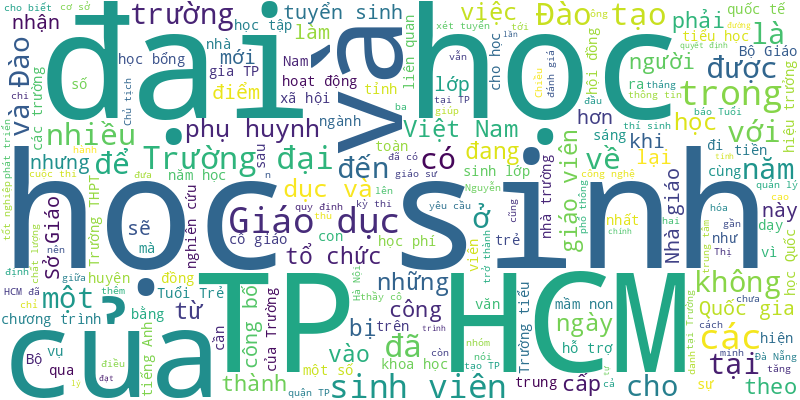
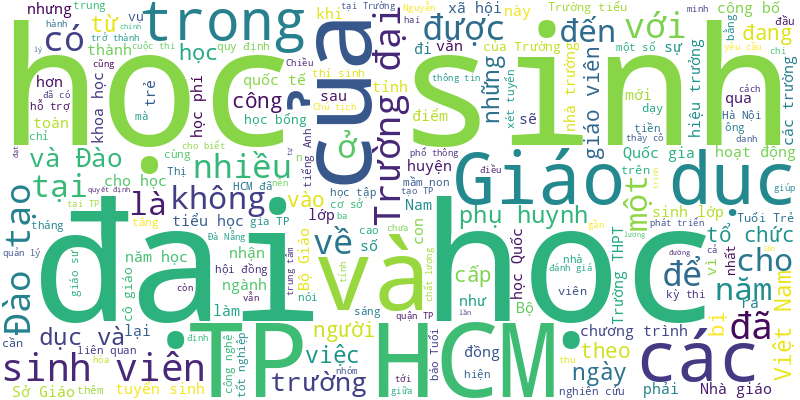
🍀 = 10%

diff --git a/README.md b/README.md
@@ -1,6 +1,11 @@
 # Tuoi Tre RSS 
 
 ## Giáo dục 
+- Mùa tư vấn tuyển sinh - hướng nghiệp 2025 sẽ chính thức bắt đầu với bảy chương trình tại sáu địa phương trong thứ bảy và chủ nhật tuần này.
+- Với nhiều hoạt động giao lưu cho học sinh, giáo viên sau kỳ thi, các thí sinh tranh tài giải toán trên máy tính cầm tay cấp TP.HCM đã có một kỳ thi đầy thư giãn.
+- Sinh viên xếp hàng dài, đợi cả tiếng đồng hồ để được xin chữ thư pháp tại Ngày hội Học sinh, sinh viên toàn quốc (Connect Fest 2025).
+- Vụ trưởng Vụ Giáo dục đại học cho rằng xét tuyển sớm chỉ có lợi cho thí sinh yếu, còn các thí sinh giỏi không cần phương thức xét tuyển này.
+- Năm 2025 Trường đại học Tài chính - Marketing sẽ mở thêm 3 ngành mới, nhưng không tăng chỉ tiêu tuyển sinh.
 - Bộ Giáo dục và Đào tạo vừa ban hành thông tư quy định về dạy thêm, học thêm với nhiều điểm mới.
 - Những sinh viên là nhà sư sẽ khó đạt được danh hiệu 'Sinh viên 5 tốt' vì vướng tiêu chí 'thể lực tốt'.
 - Nhiều ý kiến ủng hộ việc 'cấm giáo viên dạy thêm tại nhà', nhưng cũng không ít băn khoăn.
@@ -996,13 +1001,43 @@
 - Đến chiều 16-9, tổng số tiền mà hệ thống Trường Ngô Thời Nhiệm quyên góp ủng hộ đồng bào miền Bắc được là 1.221.880.000 đồng.
 - Đã ghi nhận 52 học sinh, trẻ em bị tử vong, 3 học sinh bị mất tích, 3 giáo viên tử vong, 1 giáo viên mất tích, do bão số 3 và hoàn lưu bão.
 - Tại hội nghị tổng kết năm học 2023-2024, Sở Giáo dục và Đào tạo TP.HCM quyết định thí điểm đưa tiếng Anh thành ngôn ngữ dạy học thứ hai trong nhà trường.
-- Trường đại học Công nghiệp TP.HCM vừa tuyển chọn và ký hợp đồng đưa 39 sinh viên thực tập hưởng lương tại Nhật Bản trong vòng 1 năm.
-- Đoàn Việt Nam còn giành thêm 3 chứng chỉ nghề xuất sắc trong kỳ thi Kỹ năng nghề thế giới (WorldSkills) năm nay.
-- Để tránh những hệ lụy đau lòng xuất phát từ việc sử dụng mạng xã hội thiếu ý thức và yếu kỹ năng, gia đình - nhà trường - xã hội phải quyết liệt vào cuộc.
-- Từ hơn 300 thí sinh, cuộc thi học thuật cấp thành 'Hướng dẫn viên du lịch tiềm năng' đã tìm ra quán quân.
-- Không chỉ kêu gọi cán bộ, giảng viên ủng hộ ít nhất một ngày lương, trích tiền quỹ ra ủng hộ đồng bào vùng lũ, nhiều trường còn rà soát tổng số sinh viên trong trường bị ảnh hưởng bởi lũ lụt để lên phương án hỗ trợ.
 ![Edu](Edu.png)
 ## Thời Sự 
+- Kết quả xổ số vé bóc của Công ty TNHH MTV Xổ số kiến thiết Thừa Thiên Huế thường xuyên xuất hiện số trùng ở giải hai chữ số.
+- Một số tin tức đáng chú ý: Gần nửa triệu lượt khách đi metro số 1; Công ty may vừa bị phạt vì 'bố làm chủ tịch, con là tổng giám đốc' báo lãi kỷ lục; Sếp FLC Faros rời ghế sau 2 tháng...
+- Hôm nay 6-1, không khí lạnh chi phối thời tiết cả nước khiến miền Bắc, miền Trung rét, miền Nam mát mẻ.
+- Chủ tịch Quốc hội Trần Thanh Mẫn tin tưởng các nhà báo tiếp tục phát huy lòng yêu nghề với tâm sáng, bút sắc, trí bền, đồng hành cùng Quốc hội.
+- Tổng Bí thư Tô Lâm cùng nhiều lãnh đạo, nguyên lãnh đạo Đảng, Nhà nước và các địa phương dự kỷ niệm 50 năm Ngày giải phóng Phước Long, Bình Phước.
+- Nam thanh niên sử dụng các số điện thoại là sim tứ quý và hay đăng lên mạng xã hội những hình ảnh về cuộc sống sang chảnh để phục vụ hành vi lừa đảo.
+- Công an quận Tân Phú và quận Gò Vấp tạm giữ hai người có hành vi côn đồ, gây xôn xao mạng xã hội mấy ngày qua.
+- UBND huyện Sơn Tịnh, Quảng Ngãi thông báo lên phương án cưỡng chế để thu hồi khu đất khiến dự án cầu Trà Khúc 3 'đứng bánh'.
+- Các bộ, ngành, địa phương giảm tối thiểu 20% công chức, viên chức hưởng lương từ ngân sách nhà nước để giảm biên chế theo phương án sắp xếp, tinh gọn bộ máy.
+- Đón những lời động viên, thăm hỏi và những phần quà Tết, chiến sĩ Mai Minh Chiến cùng các đồng đội 
+đang canh giữ biển trời Tổ quốc trên đảo Hòn Đốc vui mừng, hạnh phúc như được đón Tết ở nhà.
+- Không khí tại Nhà văn hóa Thanh niên (quận 1, TP.HCM) như 'bùng cháy' khi hàng trăm người đổ về hò reo, xem trực tiếp trận chung kết lượt về ASEAN Cup 2025 giữa đội tuyển Việt Nam và Thái Lan tối 5-1.
+- 4 ngày áp dụng nghị định 168, Công an TP.HCM đã xử phạt 6.106 trường hợp vi phạm, trong đó có 225 người vượt đèn đỏ.
+- 'Không được vì cảm xúc cá nhân mà gây ra mâu thuẫn xã hội, không vì thiếu kiềm chế mà gây ra hậu quả nghiêm trọng'.
+- Chiều 5-1, Tổng Bí thư Tô Lâm và Đoàn công tác trung ương đã đến thăm và làm việc tại Công an tỉnh Bình Phước.
+- Công an TP.HCM đã khởi tố 5 vụ án/17 bị can về các tội mua bán, tàng trữ trái phép chất độc; thu giữ gần 9,5 tấn xyanua, 420kg axit trong năm 2024.
+- Các đơn vị của Công an TP.HCM triển khai 100% quân số ứng trực, xử lý các trường hợp quá khích, lợi dụng sự kiện chung kết ASEAN Cup 2024 gây rối, đảm bảo tình hình an ninh trật tự.
+- Tuyến đường 822B sẽ 'kéo gần' vùng biên giới Đức Huệ, Long An với TP.HCM, kết nối với cả vùng Đông - Tây Nam Bộ qua các tuyến đường Hồ Chí Minh, quốc lộ N2.
+- Ngày 5-1, Tàu CSB 6009 thuộc Hải đội 421, Hải đoàn 42, Bộ tư lệnh Vùng Cảnh sát biển 4 vượt đường biển thực hiện nhiệm vụ trực sẵn sàng chiến đấu tuần tra, kiểm soát, chống khai thác IUU dịp Tết Nguyên đán Ất Tỵ năm 2025.
+- Một người đàn ông bị UBND phường xử phạt vì đổ rác thải, xà bần không đúng nơi quy định.
+- Người đàn ông đánh đập dã man một học sinh lớp 7 trên địa bàn xã Nhơn Hội, TP Quy Nhơn, Bình Định bị camera quay lại đang được công an xã mời làm việc.
+- Khi hành khách lên xe và thông báo điểm đến, tài xế sẽ nhập thông tin vào ứng dụng. Giá cước chuyến đi được thông báo, khách đồng ý số tiền này sẽ hiện trên màn hình hiển thị cước phí.
+- Một số người đến các ngã tư thường có 'thói quen' rẽ phải khi đèn đỏ mà không hay biết mình đã vi phạm.
+- Ngày 5-1, Tổng Bí thư Tô Lâm đã đến thăm, chúc Tết nguyên Chủ tịch nước Nguyễn Minh Triết tại nhà riêng ở tỉnh Bình Dương.
+- Chuyên gia pháp lý cho hay "thợ săn tiền thưởng" đi soi lỗi vi phạm giao thông không nên coi là "một nghề" kiếm tiền dễ.
+- Mạng xã hội đang lan truyền đoạn clip ghi lại cảnh người đàn ông đi xe máy chặn đầu ô tô rồi hùng hổ dùng vật cứng đập bể kính.
+- Ngày 5-1, Ban Quản lý dự án 85 tổ chức lễ hợp long cầu Đại Ngãi 2 nối liền huyện Cù Lao Dung với huyện Long Phú (Sóc Trăng).
+- Cầu tầng của nhà ga T3 Tân Sơn Nhất - hạng mục quan trọng giúp kết nối giao thông phía trước nhà ga - đã dần thành hình.
+- Cột đèn điện nằm giữa tim đường tại xã Đức Ninh (TP Đồng Hới, Quảng Bình) đã được tháo dỡ sau phản ánh trên Tuổi Trẻ Online.
+- Theo nội dung vụ án, bà V. trình bày do có quan hệ thân tình nên tháng 11-2019 bà cho ông K. vay mượn số tiền 10,5 tỉ đồng.
+- Thời tiết Nam Bộ sắp có một đợt nhiệt độ giảm mạnh, không khí sẽ mát mẻ, se lạnh như đợt trước Giáng sinh.
+- Tuần này, Bắc Bộ và Trung Bộ đón đợt không khí lạnh mới, trời rét. Nam Bộ nhiều mây, ngày nắng.
+- Nghĩ rằng anh Long nhìn khó chịu, sẽ hãm hại mình nên Sang đi lấy dao giết bạn tại trung tâm cai nghiện ma túy tự nguyện.
+- Một nhân viên cứu hộ của khu nghỉ dưỡng ở Đà Nẵng khi ra biển cứu người đuối nước thì mất tích trên biển.
+- Đám cháy bùng phát tại cửa hàng chăm sóc, bán thú cưng trên đường Nơ Trang Long (quận Bình Thạnh, TP.HCM) khiến 3 người nhập viện.
 - Nghị định 168 tăng mức xử phạt đã thay đổi ý thức tham gia giao thông của nhiều người, qua ngã tư không còn chen vượt đèn đỏ.
 - Ngày 4-1, Thủ tướng đã dự và trao quyết định phê duyệt quy hoạch TP.HCM thời kỳ 2021 - 2030, tầm nhìn đến năm 2050 cho lãnh đạo TP.HCM.
 - Một số người biện minh hành vi đánh người của mình là do căng thẳng, áp lực cuộc sống. Tuy nhiên, không thể dùng nó như một lý do biện hộ cho hành vi bạo lực.
@@ -1969,40 +2004,6 @@
 - Đoàn đại biểu TP.HCM do Bí thư Thành ủy TP.HCM làm trưởng đoàn đến thăm và chúc mừng cộng đồng Công giáo nhân dịp Giáng sinh và Tết dương lịch.
 - Hạn mặn mùa khô 2024-2025 dự báo có xu thế tăng nhanh và xâm nhập sâu vào nội đồng.
 - Chủ hụi bị khởi tố, bắt giam sau khi phiên tòa xét xử tranh chấp dân sự và phát hiện có dấu hiệu của tội phạm lừa đảo chiếm đoạt tài sản.
-- Đại diện Công an TP.HCM cho biết cơ quan công an sẽ điều chỉnh, tách, gộp thông tin lưu trú của người dân trực tiếp trên hệ thống.
-- Lực lượng chức năng đã phá thành công khối đá nặng hơn 100 tấn rơi xuống đèo Khánh Lê, dự kiến trưa mai sẽ thông xe đèo này.
-- Phát biểu tại Hội nghị báo chí năm 2024, Trưởng Ban Tuyên giáo Trung ương Nguyễn Trọng Nghĩa đề nghị báo chí tập trung tuyên truyền, góp phần tạo lan tỏa động lực để đưa đất nước bước vào kỷ nguyên mới.
-- Bộ Công an cho biết thông tư 73/2024 có hiệu lực từ 1-1-2025, quy định về nội dung kiểm tra của cảnh sát giao thông khi dừng phương tiện.
-- Nước sinh hoạt trong bể chứa một số chung cư có những chỉ tiêu không đạt theo quy định (thông số clo dư, coliform tổng số, E.coli...).
-- Hơn 2.200 cán bộ, chiến sĩ của Binh chủng Đặc công, với nòng cốt từ một số đơn vị như Trường Sĩ quan Đặc công, Lữ đoàn Đặc công bộ 113, Lữ đoàn Đặc công biệt động 1 sẽ có màn phô diễn đặc biệt tinh nhuệ tại lễ khai mạc triển lãm quốc phòng.
-- TP.HCM đã bắt đầu cấp phép nhập khẩu thuốc đáp ứng nhu cầu điều trị đặc biệt, giải quyết vấn đề khó khăn trong nhập khẩu thuốc hiếm, thuốc dùng trường hợp khẩn cấp.
-- Năm 2024, loạt dự án giao thông lớn ở TP.HCM đã có sự chuyển mình mạnh mẽ. Nhiều dự án được khởi công và hiện nay một số sắp về đích.
-- Tổng Bí thư Tô Lâm nêu rõ phải làm tốt công tác tham mưu, sắp xếp tinh gọn tổ chức bộ máy của hệ thống chính trị gắn với cơ cấu lại đội ngũ cán bộ.
-- Nhiều tỉnh thành có báo cáo nhanh tình hình thưởng Tết năm 2025, vẫn chưa có nơi nào thưởng Tết lên tới hàng tỉ đồng như năm 2024 Giáp Thìn.
-- Đột kích quán bar Diamond Club ở TP Tam Kỳ, Quảng Nam trong đêm, lực lượng công an xác định 12 người có hành vi mua bán, tổ chức sử dụng trái phép chất ma túy.
-- Cơ quan công an bắt quả tang một chủ tịch UBND phường ở Bắc Giang vì nhận hối lộ ngay tại phòng làm việc.
-- Công an huyện Tri Tôn, tỉnh An Giang đã bắt tạm giam tài xế Đoàn Đức Vinh (28 tuổi, ngụ huyện Vĩnh Thạnh, TP Cần Thơ) do lái xe tải làm sập cầu.
-- Liên quan vụ ô tô tông nhiều xe máy trên cầu Tân Lý, Cơ quan cảnh sát điều tra Công an thị xã La Gi đã tạm giữ hình sự tài xế Lê Hưng Lợi.
-- Sau chừng 7 tháng thông xe, tuyến đường vành đai phía tây Đà Nẵng (có tổng vốn đầu tư khoảng 1.500 tỉ đồng) lại tiếp tục sạt lở.
-- Thường trực Ban Bí thư Trần Cẩm Tú cho biết việc sắp xếp, tinh gọn bộ máy đang là việc cấp bách, làm càng sớm càng có  lợi cho dân cho nước.
-- Ngày 16-12, nhiều tài xế ô tô không chú ý biển báo hoặc cố tình dừng sai quy định khu vực xung quanh Bệnh viện Từ Dũ bị cảnh sát giao thông lập biên bản.
-- Movenpick Central - dự án khách sạn 5 sao siêu sang tại TP Đồng Hới (Quảng Bình) bị thu hồi đất đã cấp vì nợ thuế gần 100 tỉ đồng.
-- Trong mấy ngày qua, liên tiếp nhiều vụ ẩu đả, đánh người trên đường diễn ra tại nhiều nơi khiến dư luận bức xúc.
-- Sáng 16-12, một người Trung Quốc đã bị trục xuất về nước theo quy định.
-- Nam thanh niên vừa chạy xe máy vừa nằm trên yên xe 'biểu diễn' bị cảnh sát giao thông - trật tự Công an quận 1 lập biên bản xử lý.
-- Nhiều phụ huynh rất lo lắng khi thấy con mình hút thuốc, dù đã nhắc nhở, thậm chí dùng biện pháp mạnh nhưng vẫn vô tác dụng.
-- Trong lúc bơi ghe thả lưới bắt cá trên sông thì bị lật ghe, hai mẹ con ở TP Tam Kỳ, Quảng Nam bị chết đuối.
-- Tài xế hành hung người đi xe máy trước cổng Bệnh viện Từ Dũ (quận 1, TP.HCM) đã được lực lượng chức năng mời lên làm việc, xử lý.
-- Tại TP.HCM ngày có thêm nhiều người tự nguyện giao động vật hoang dã cho cơ quan kiểm lâm, mong muốn chúng được thả về môi trường tự nhiên.
-- Ngày 16-12, Tổng Bí thư Tô Lâm dự và phát biểu chỉ đạo tại hội nghị toàn quốc tổng kết công tác tổ chức xây dựng Đảng năm 2024, triển khai nhiệm vụ năm 2025.
-- Từ tháng 8-2024 đến nay, hai chị em ở TP Tam Kỳ, Quảng Nam đã cho vay lãi nặng với lãi suất từ 120 - 360%/năm với tổng số tiền cho vay 2,4 tỉ đồng.
-- Thông tin từ Bộ Giao thông vận tải cho biết Cục trưởng Cục Hàng không Việt Nam Đinh Việt Thắng xin nghỉ hưu trước tuổi là vì lý do sức khỏe.
-- Không khí lạnh đã tràn tới Nam Bộ, thời tiết TP.HCM và toàn miền Nam sẽ giảm mưa, nhiệt độ giảm.
-- Khi dừng đèn đỏ, tài xế xe tải bất ngờ bị một người đàn ông đấm, đá tới tấp bất chấp đứa trẻ ngồi ghế bên cạnh khóc thét.
-- Vụ tai nạn xảy ra đêm 15-12 trên cầu Tân Lý, thị xã La Gi, tỉnh Bình Thuận khiến một nạn nhân chạy xe máy rơi xuống sông Dinh.
-- Diễn biến này theo đúng lộ trình mà UBND TP.HCM đặt ra trong quyết định Ban hành giá dịch vụ thoát nước và xử lý nước thải trên địa bàn TP giai đoạn 2021 - 2025.
-- Sở Y tế TP.HCM cho biết đã xử phạt và cho vào danh sách 'đen' nhiều phòng khám có hành vi vi phạm.
-- Khu đất Cảng Sài Gòn đề nghị làm dự án cảng tàu khách quốc tế Nhà Rồng - Khánh Hội đang vướng một dự án khác.
 ![New](News.png)
 ## Nhịp sống số 
 - Ngày 3-1, Google thông báo đã thanh toán 100 triệu CAD (tương đương 69 triệu USD) cho các cơ quan báo chí Canada để sử dụng nội dung thông tin trên nền tảng này.
